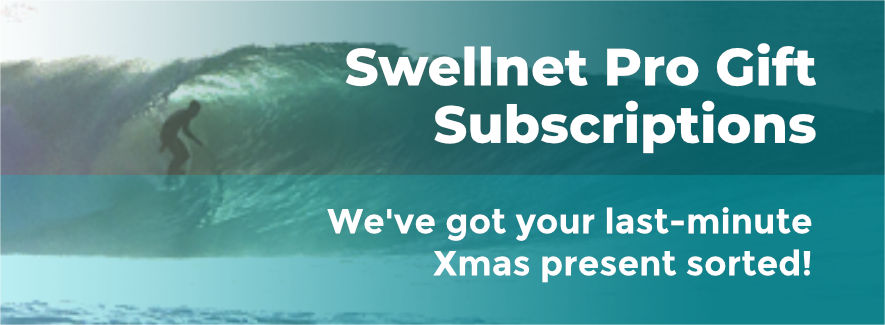
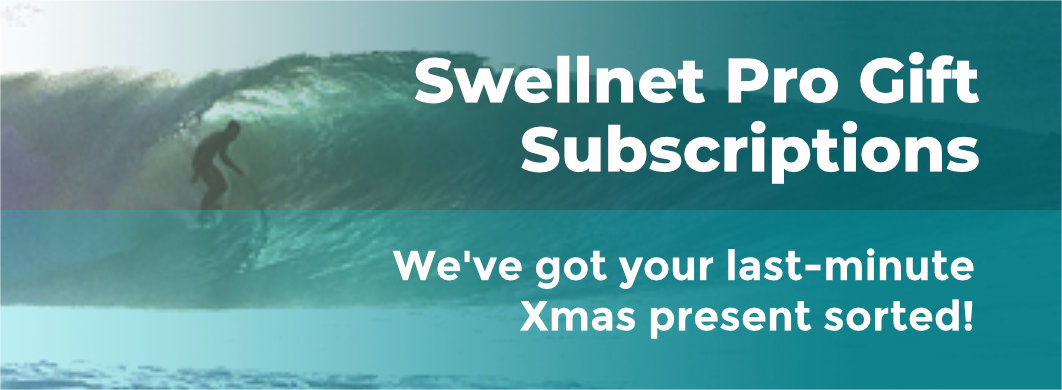
Built liquidvisual from commit 02dae4d on branch master

diff --git a/reports/asia/japan/ryukyu-islands/amami-west/index.html b/reports/asia/japan/ryukyu-islands/amami-west/index.html
@@ -238,7 +238,7 @@
                             <!-- GIFT PROMOTION -->
                             <p class="mb-4">
                                 <a href="/gift-subscriptions/">
-                                    <img width="100%" src="/assets/img/content/swellnet-pro-gift-subscriptions@3x.jpg" alt="Swellnet Pro Gift Subscriptions">
+                                    <img width="100%" src="/assets/img/content/swellnet-pro-gift-subscriptions@4x.jpg" alt="Swellnet Pro Gift Subscriptions">
                                 </a>
                             </p>
                         </aside>

diff --git a/reports/australia/queensland/gold-coast/index.html b/reports/australia/queensland/gold-coast/index.html
@@ -258,7 +258,7 @@
                             <!-- GIFT PROMOTION -->
                             <p class="mb-4">
                                 <a href="/gift-subscriptions/">
-                                    <img width="100%" src="/assets/img/content/swellnet-pro-gift-subscriptions@3x.jpg" alt="Swellnet Pro Gift Subscriptions">
+                                    <img width="100%" src="/assets/img/content/swellnet-pro-gift-subscriptions@4x.jpg" alt="Swellnet Pro Gift Subscriptions">
                                 </a>
                             </p>
                         </aside>

diff --git a/reports/australia/queensland/sunshine-coast/index.html b/reports/australia/queensland/sunshine-coast/index.html
@@ -238,7 +238,7 @@
                             <!-- GIFT PROMOTION -->
                             <p class="mb-4">
                                 <a href="/gift-subscriptions/">
-                                    <img width="100%" src="/assets/img/content/swellnet-pro-gift-subscriptions@3x.jpg" alt="Swellnet Pro Gift Subscriptions">
+                                    <img width="100%" src="/assets/img/content/swellnet-pro-gift-subscriptions@4x.jpg" alt="Swellnet Pro Gift Subscriptions">
                                 </a>
                             </p>
                         </aside>

diff --git a/user/login/index.html b/user/login/index.html
@@ -238,7 +238,7 @@
                             <!-- GIFT PROMOTION -->
                             <p class="mb-4">
                                 <a href="/gift-subscriptions/">
-                                    <img width="100%" src="/assets/img/content/swellnet-pro-gift-subscriptions@3x.jpg" alt="Swellnet Pro Gift Subscriptions">
+                                    <img width="100%" src="/assets/img/content/swellnet-pro-gift-subscriptions@4x.jpg" alt="Swellnet Pro Gift Subscriptions">
                                 </a>
                             </p>
                         </aside>

diff --git a/index.html b/index.html
@@ -611,7 +611,7 @@
                             <!-- GIFT PROMOTION -->
                             <p class="mb-4">
                                 <a href="/gift-subscriptions/">
-                                    <img width="100%" src="/assets/img/content/swellnet-pro-gift-subscriptions@3x.jpg" alt="Swellnet Pro Gift Subscriptions">
+                                    <img width="100%" src="/assets/img/content/swellnet-pro-gift-subscriptions@4x.jpg" alt="Swellnet Pro Gift Subscriptions">
                                 </a>
                             </p>
 

diff --git a/surfcams/knights/index.html b/surfcams/knights/index.html
@@ -292,7 +292,7 @@
                             <!-- GIFT PROMOTION -->
                             <p class="mb-4">
                                 <a href="/gift-subscriptions/">
-                                    <img width="100%" src="/assets/img/content/swellnet-pro-gift-subscriptions@3x.jpg" alt="Swellnet Pro Gift Subscriptions">
+                                    <img width="100%" src="/assets/img/content/swellnet-pro-gift-subscriptions@4x.jpg" alt="Swellnet Pro Gift Subscriptions">
                                 </a>
                             </p>
 

diff --git a/surfcams/knights/replays/index.html b/surfcams/knights/replays/index.html
@@ -288,7 +288,7 @@
                             <!-- GIFT PROMOTION -->
                             <p class="mb-4">
                                 <a href="/gift-subscriptions/">
-                                    <img width="100%" src="/assets/img/content/swellnet-pro-gift-subscriptions@3x.jpg" alt="Swellnet Pro Gift Subscriptions">
+                                    <img width="100%" src="/assets/img/content/swellnet-pro-gift-subscriptions@4x.jpg" alt="Swellnet Pro Gift Subscriptions">
                                 </a>
                             </p>
 
